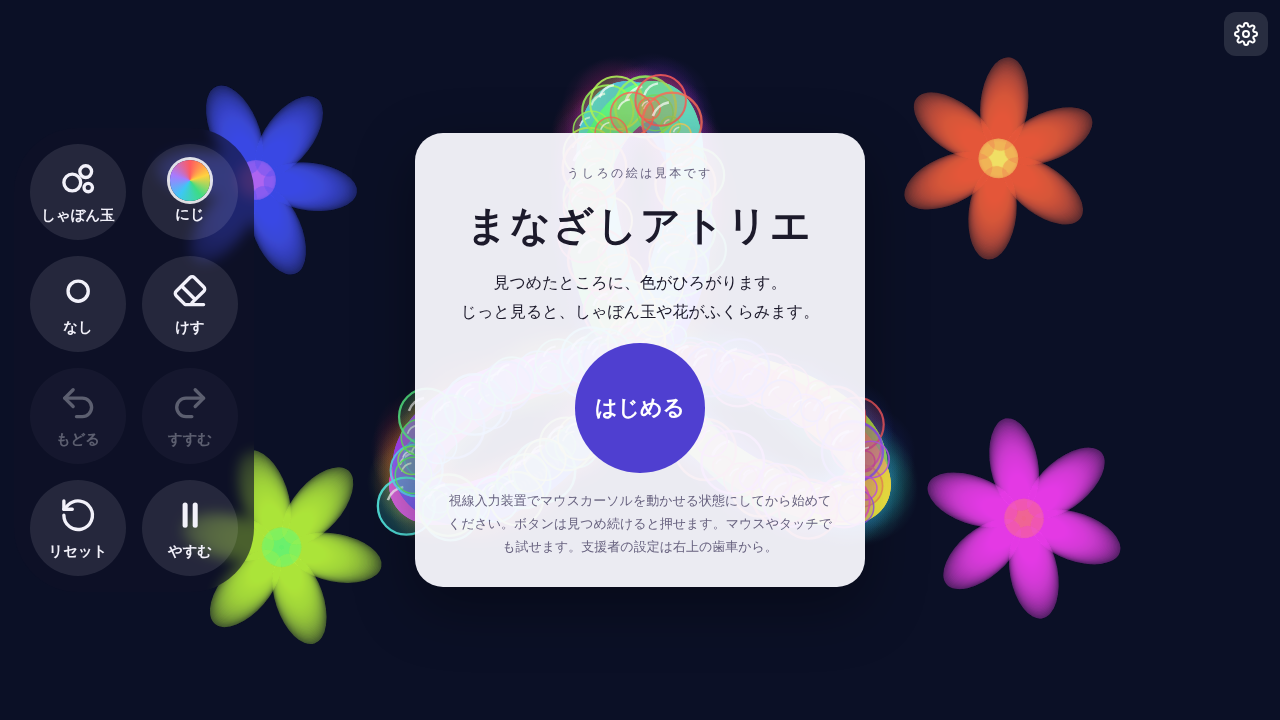
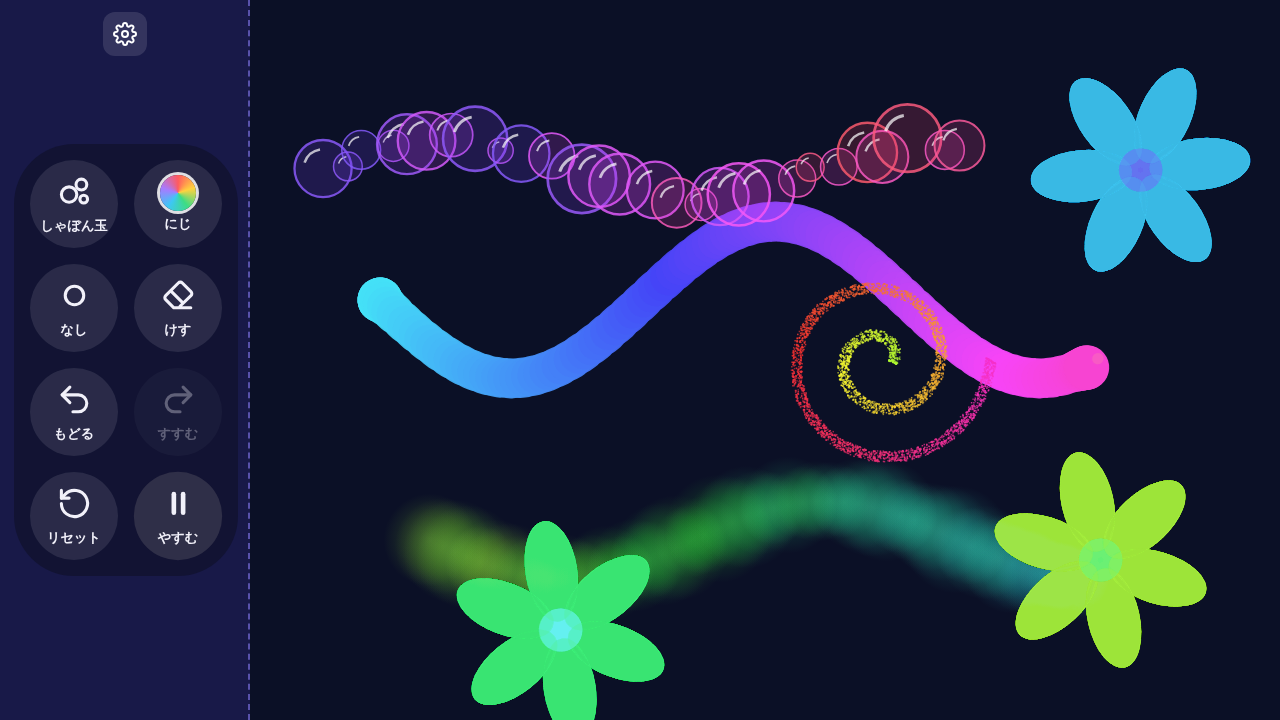
Add files via upload
まなざしアトリエv1.8.0更新

diff --git a/profile/README.md b/profile/README.md
@@ -98,7 +98,8 @@
 **できること**
 - 見つめたところに色が広がり、じっと見るとしゃぼん玉や花がふくらみます（ふで6種類・色8種類・左右対称や万華鏡のもよう。色えんぴつのかすれも出せます）
 - ふで・いろ・もようのボタンを見つめると一覧が開き、本人が見つめて選べます。もどる・すすむ・けす・リセットもあります
-- ペンの上げ下げの合図（見つめる・ゆっくりまばたき・スイッチ）で、どこから描くかを本人が決められます。顔の向きで描くときの合図のアイデアを募集しています
+- ペンの上げ下げの合図（見つめる・ゆっくりまばたき・スイッチ・ボタンの帯・角の印）で、どこから描き、どこでやめるかを本人が決められます。顔の向きで描くときの合図のアイデアを募集しています
+- 視線入力だけでなく、マウスやトラックボール、タブレットの指でも描けます。ボタンの位置・数・大きさを、その子に合わせて変えられます
 - カメラで使うときは、目をゆっくりとじて決めることもできます（ふつうのまばたきでは決まりません）
 - 視線入力装置（マウスモード）のほか、パソコンやタブレットのカメラ（内蔵・外付け）、マウス・タッチでも使えます
 - 手ぶれ補正、ボタンを押せるまでの時間、ボタンの位置・大きさなどを支援者が合わせられます
